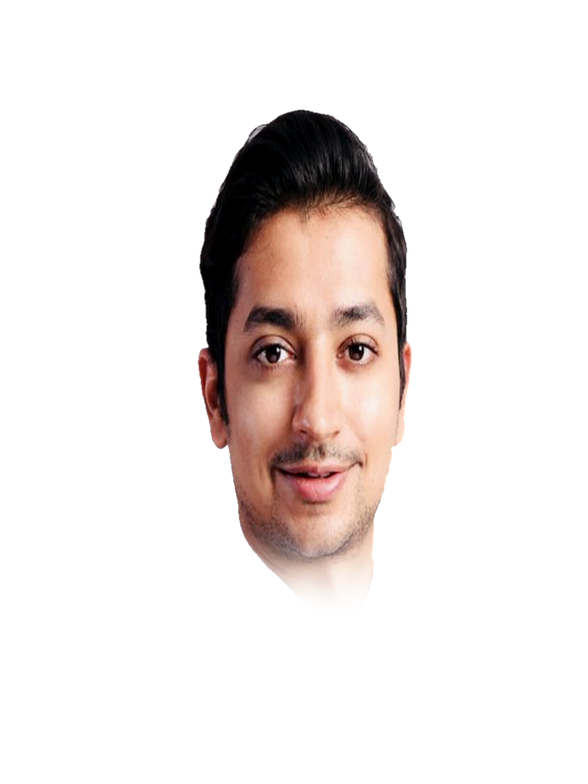
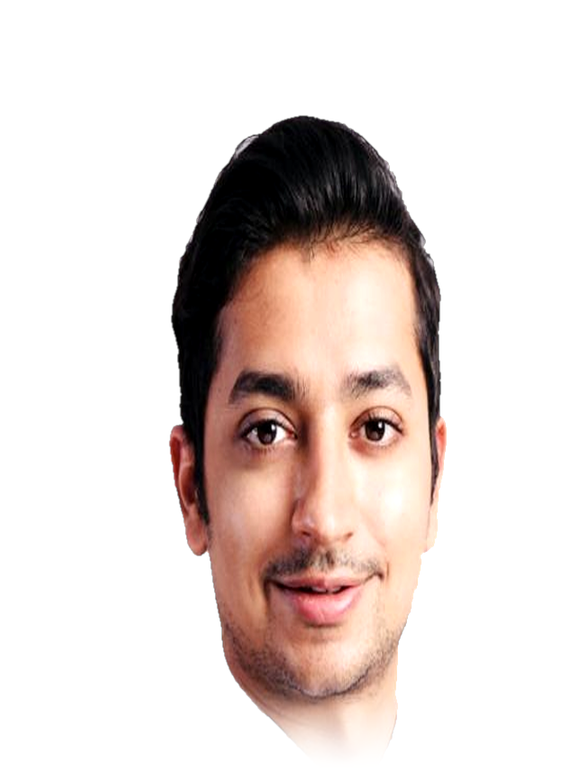
Frame the mentor portraits the way the team strip frames its own
The mentor cards were colour cut-outs at a smaller head than the team's,
and two of the six were cut from thumbnails. All six are re-cut on the
card's 588 × 784 canvas with the head at half the card's height and the
eyes at 37.5%, which is where the strip above puts them, and the shoulders
running off the foot of the card rather than fading out above it.

Dr. Jhunjhunwala and Suresh Nanda are now cut from full-size versions of
the same portraits found online (ciks.org and uvcapital.in) instead of
Drive's 225px and 301px thumbnails. Deepak Chitnis's official Lodha
portrait exists only at 375px; Federal Bank's site blocks automated
fetches of Virendra Somwanshi's official photograph; Bony Niranjan Dalal
has no photograph online. Those three stay on Drive's files, Virendra's
now traced by hand to the hair and jacket rather than an ellipse. The
content file records where each came from and that none is licensed.

Changed region(s): [[0.2755, 0.1224, 0.7653, 0.949]]

diff --git a/src/content/home.ts b/src/content/home.ts
@@ -519,33 +519,31 @@ export const mentorsIntro = {
 /**
  * 8X's advisory board, less the two who already appear above as partners.
  *
- * Photographs from the client's "Photos of Mentors" folder on Drive; roles
- * and biographies from the Advisory Board page of their "8X Ventures Fund
- * II — India DeepTech Fund" teaser.
+ * Roles and biographies from the Advisory Board page of the client's "8X
+ * Ventures Fund II — India DeepTech Fund" teaser.
  *
- * The photographs arrived from six different cameras — a studio headshot, a
- * conference snap with a microphone in it, a 225px thumbnail, a portrait
- * taken in an office — and in colour, which is how they are shown. Three
- * things in `public/images/mentors/` bring them to one set:
+ * The photographs are the client's "Photos of Mentors" folder on Drive
+ * where that folder had a usable one, and the web where it did not. The
+ * Drive copies of Dr. Jhunjhunwala (225px) and Suresh Nanda (301px) were
+ * thumbnails, too soft to fill a card; the client asked for better ones
+ * found online. Dr. Jhunjhunwala's is the same studio portrait at 900 ×
+ * 1200 from the CIKS board-of-trustees page (ciks.org); Suresh Nanda's is
+ * the headshot on UV Capital's site (uvcapital.in), 729 × 994. Deepak
+ * Chitnis's official Lodha Group portrait is the same 375px file Drive
+ * already had, and nothing larger is published; Federal Bank's site refuses
+ * automated fetches of Virendra Somwanshi's official photograph, so his is
+ * still Drive's; Bony Niranjan Dalal has no photograph online at all, so his
+ * is still Drive's conference close-up, which stops at the shoulders. None
+ * of these photographs is the client's own and none is licensed to 8X;
+ * publishing them needs the subjects' or the publishers' say-so.
  *
- *   - one framing. Each is cropped so the head is the same size on the same
- *     eye line. Scaling to the face rather than to the frame is the thing
- *     that reads first; the alternative is six photographs at six distances.
- *   - one exposure and one white balance, both measured across the face
- *     rather than the whole frame — a white studio card and a warm office
- *     wall pull the same face two different ways — and both corrected
- *     towards the median face of the set, so nobody is pushed far from how
- *     they actually look.
- *   - one ground. Each keeps its own out to about 58% of the radius and is
- *     blended into a single pale tint by 93%, so the part of a photograph
- *     that differs from the others is the part that goes. The two shot on
- *     location — an office with a picture on the wall, a stage — start
- *     blending earlier, because in colour those grounds are much louder than
- *     a studio card.
- *
- * Two of the files want replacing, and nothing in the code would change if
- * they were: Dr. Ashok Jhunjhunwala's is 225px square and Suresh Nanda's
- * 301px, so both are soft. A plain headshot for each would settle it.
+ * The files in `public/images/mentors/` are cut out and set on the card's
+ * own 588 × 784 canvas so that every mentor card is the team card: the
+ * subject keyed from a plain studio ground where there was one, traced by
+ * hand where there was not (an office wall, a stage), the head at half the
+ * card's height with the eyes at 37.5% — the framing of the strip above —
+ * and the shoulders running off the foot of the card. Levels are set from
+ * the photograph and the face brought to one brightness across the set.
  */
 export const mentors: Mentor[] = [
   {
